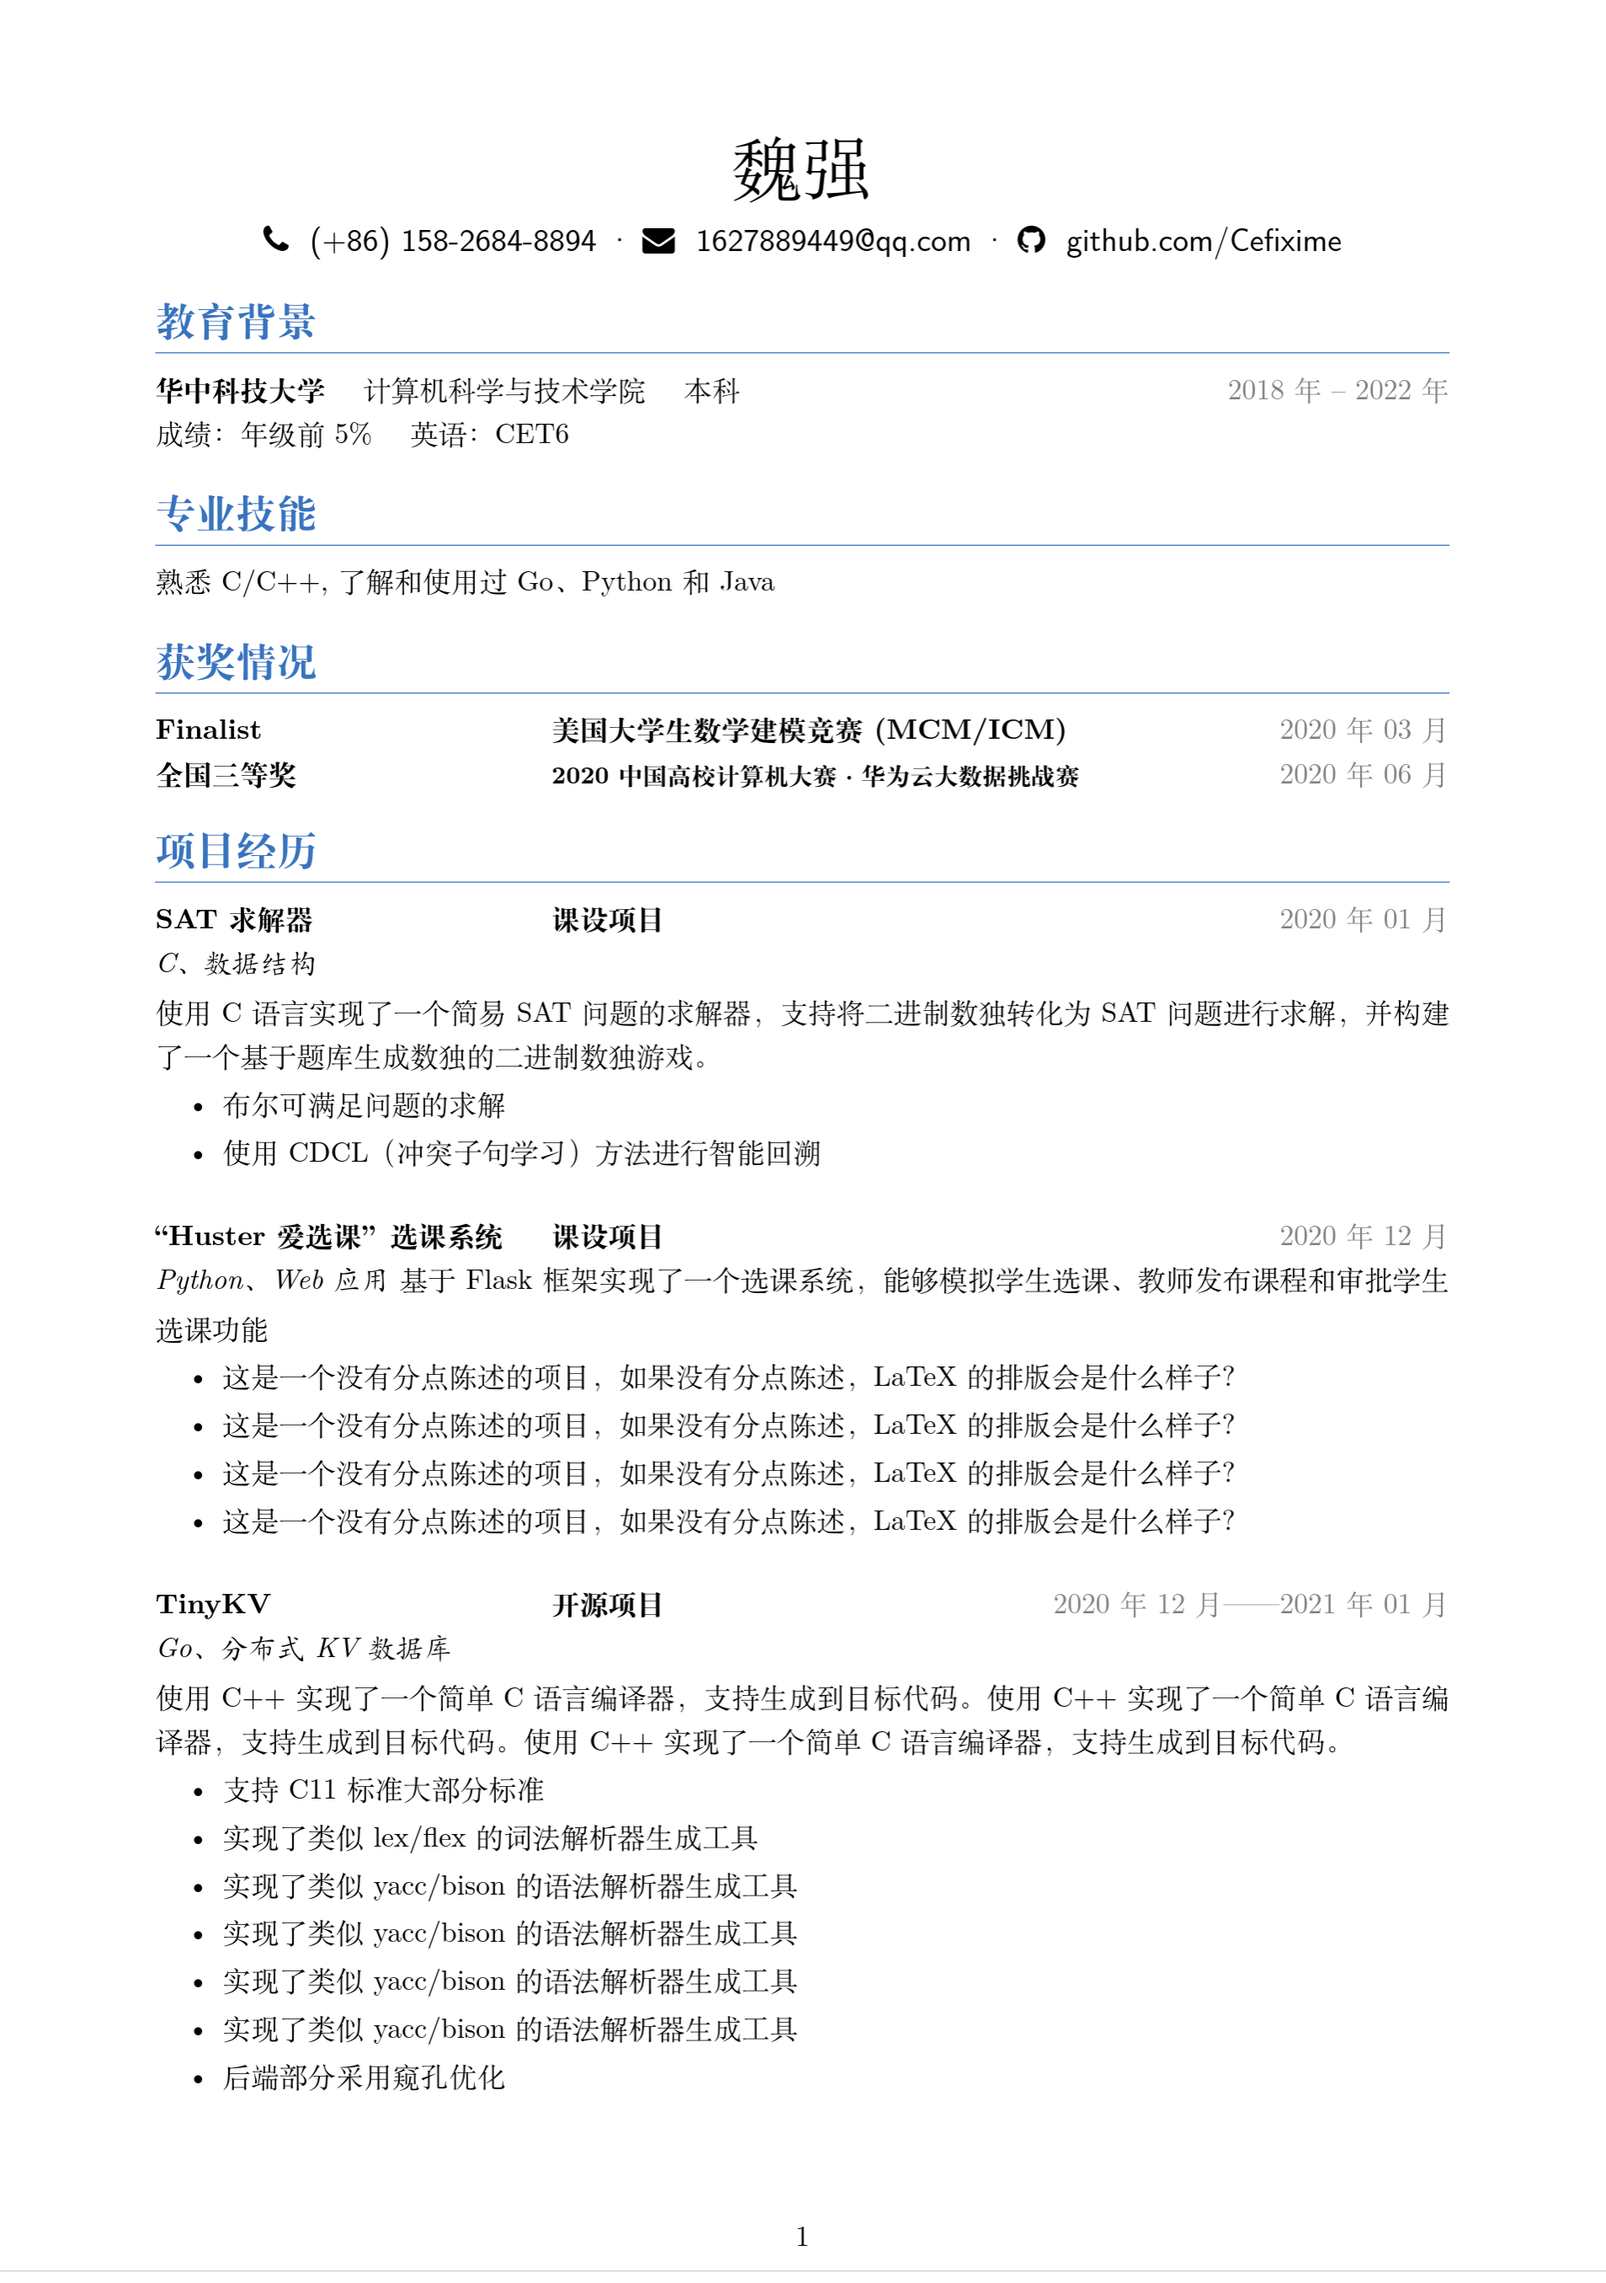
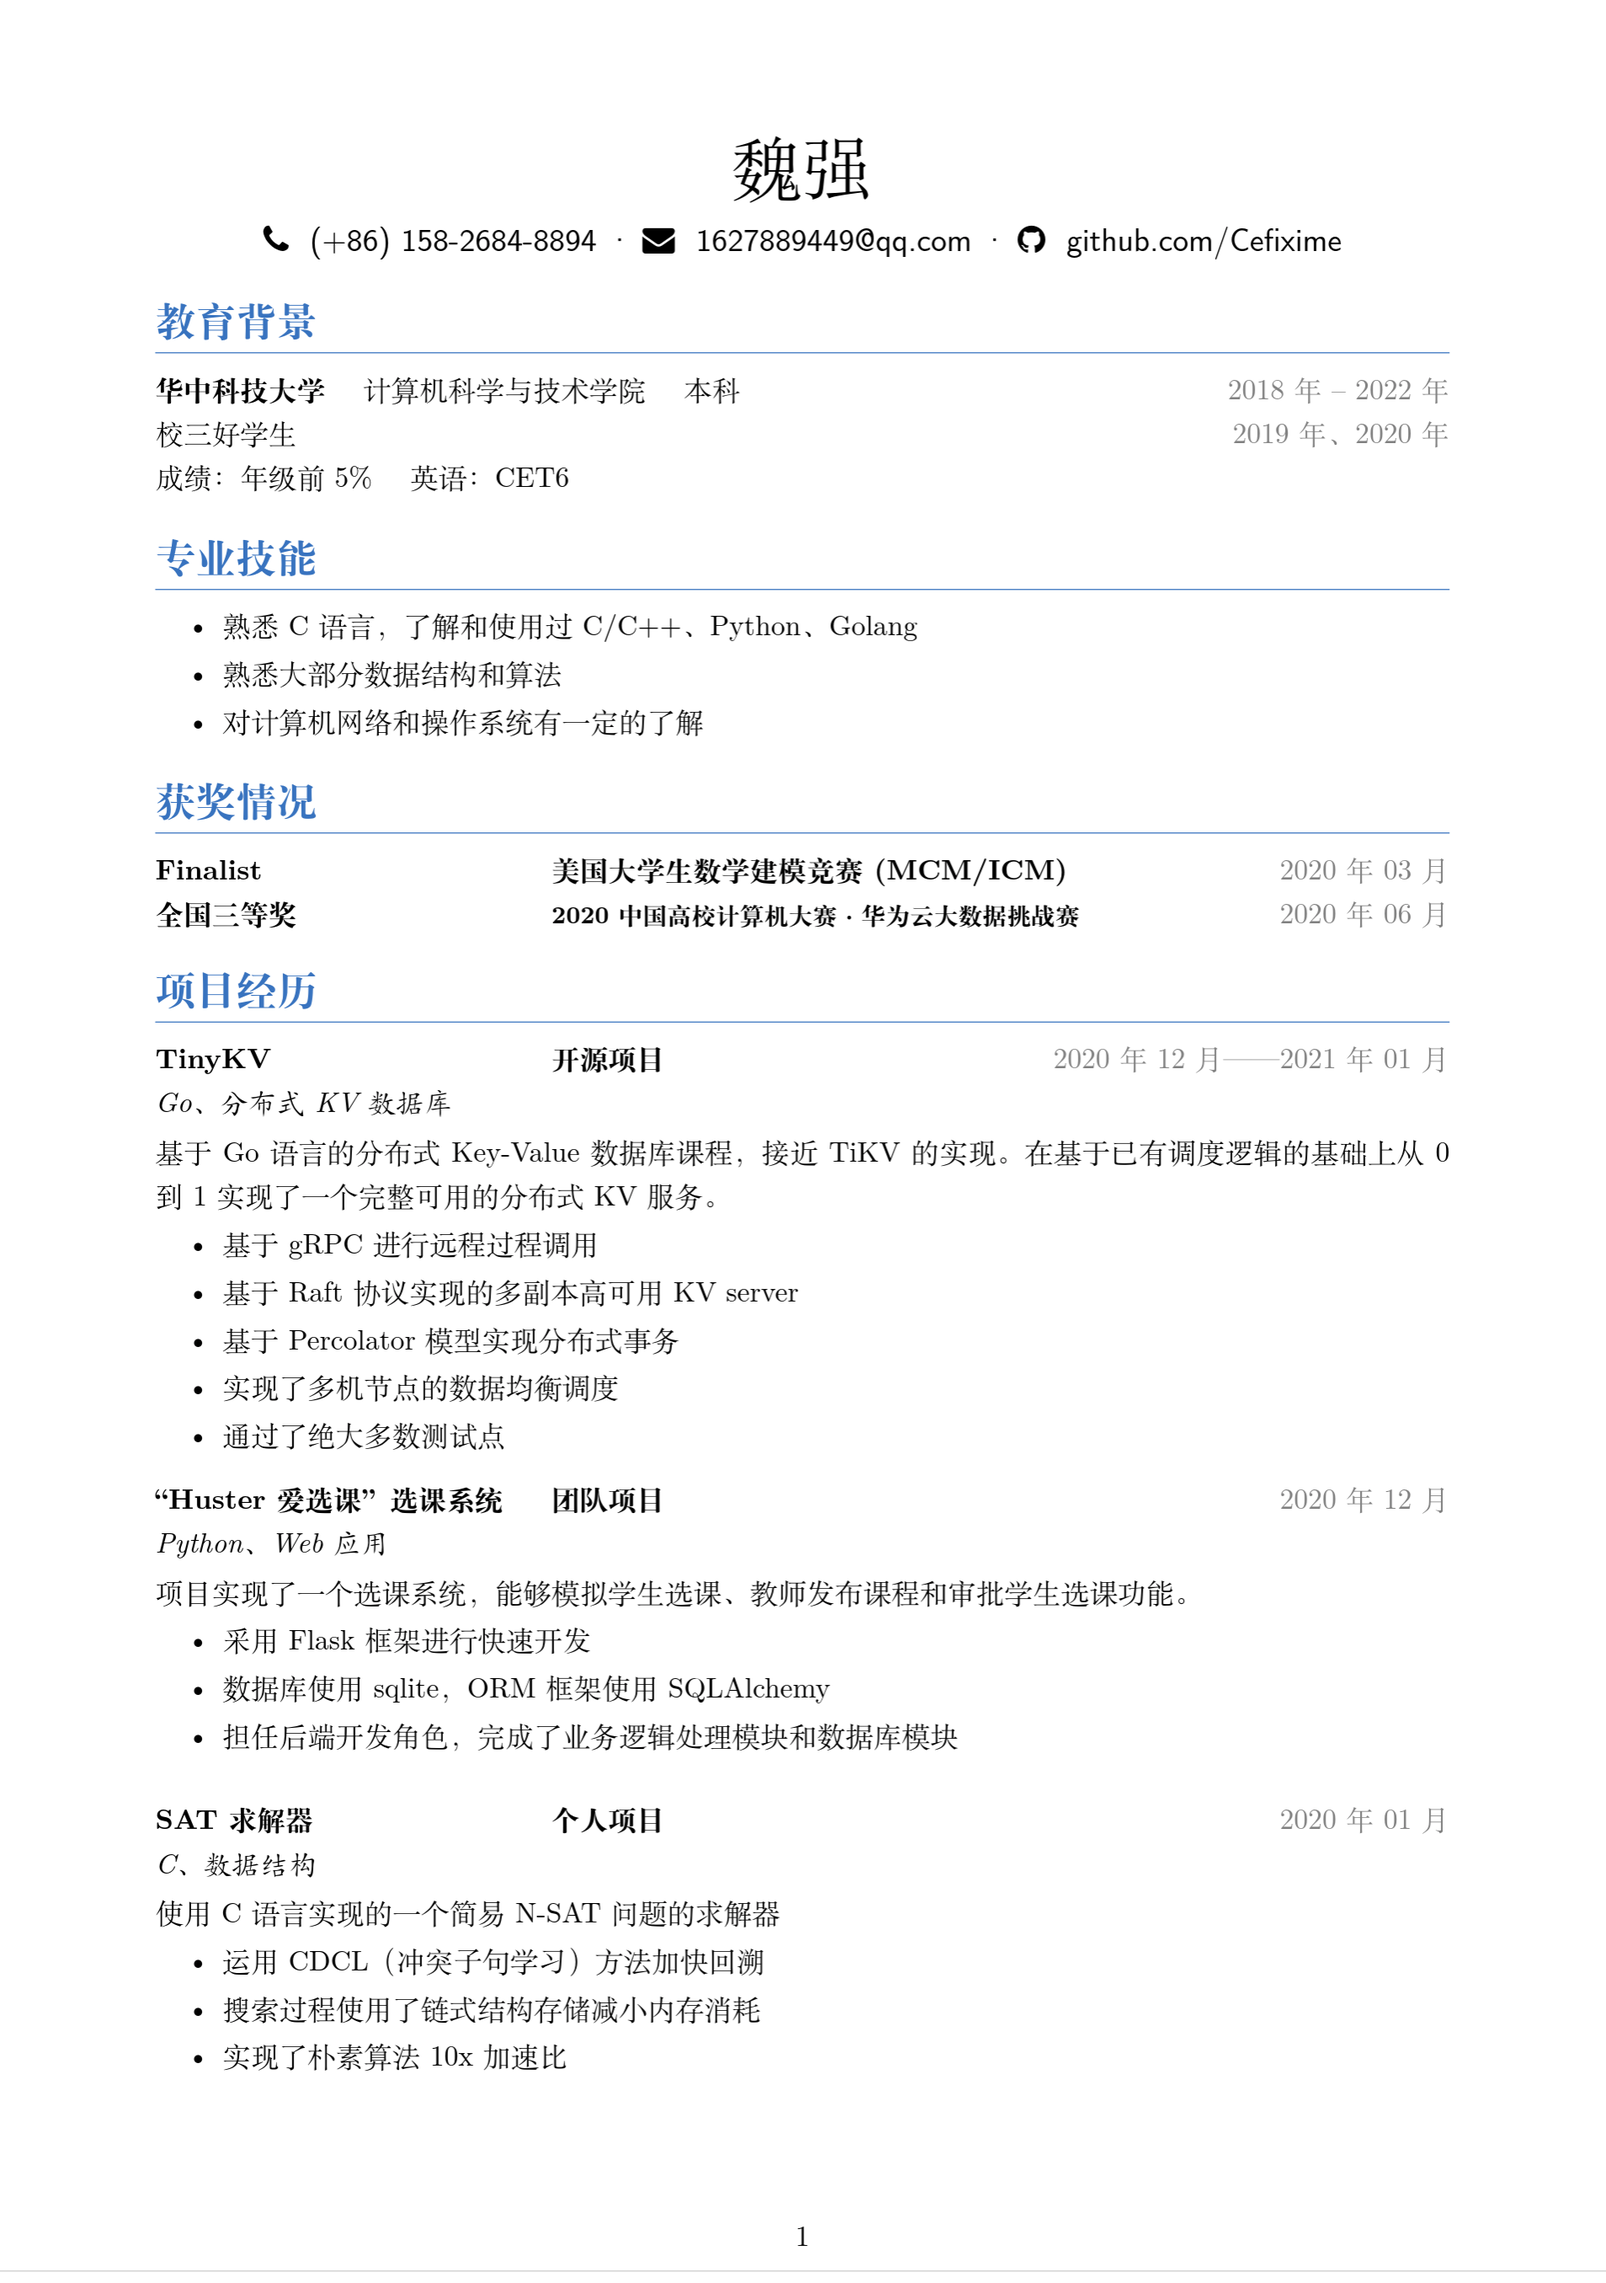
modify some description

diff --git a/wq.tex b/wq.tex
@@ -23,6 +23,7 @@
 
 \section{教育背景}
 \dateditem{\textbf{华中科技大学} \quad 计算机科学与技术学院 \quad 本科}{2018年 -- 2022年}
+\dateditem{校三好学生}{2019年、2020年}
 成绩：年级前5\% \quad 英语：CET6
 
 
@@ -30,8 +31,11 @@
 
 \section{专业技能}
 \smallskip
-熟悉C/C++, 了解和使用过Go、Python和Java
-
+\begin{itemize}
+\item 熟悉C语言，了解和使用过C/C++、Python、Golang
+\item 熟悉大部分数据结构和算法
+\item 对计算机网络和操作系统有一定的了解
+\end{itemize}
 
 % ----------------------------------------------------------------------------- %
 
@@ -44,47 +48,46 @@
 
 \section{项目经历}
 
-
-% ---
-\datedproject{SAT求解器}{课设项目}{2020年01月}
-\textit{C、数据结构}
-\vspace{0.4ex}
-
-使用C语言实现了一个简易SAT问题的求解器，支持将二进制数独转化为SAT问题进行求解，并构建了一个基于题库生成数独的二进制数独游戏。
-\begin{itemize}
-  \item 布尔可满足问题的求解
-  \item 使用CDCL（冲突子句学习）方法进行智能回溯
-\end{itemize}
-\medskip
-% ---
-\datedproject{“Huster爱选课”选课系统}{课设项目}{2020年12月}
-\textit{Python、Web应用}
-\vspace{0.4ex}
-基于Flask框架实现了一个选课系统，能够模拟学生选课、教师发布课程和审批学生选课功能
-\begin{itemize}
-\item 这是一个没有分点陈述的项目，如果没有分点陈述，LaTeX的排版会是什么样子？
-\item 这是一个没有分点陈述的项目，如果没有分点陈述，LaTeX的排版会是什么样子？
-\item 这是一个没有分点陈述的项目，如果没有分点陈述，LaTeX的排版会是什么样子？
-\item 这是一个没有分点陈述的项目，如果没有分点陈述，LaTeX的排版会是什么样子？
-\end{itemize}
-\medskip
-% ---
 \datedproject{TinyKV}{开源项目}{2020年12月——2021年01月}
 \textit{Go、分布式KV数据库}
 \vspace{0.4ex}
 
-使用C++实现了一个简单C语言编译器，支持生成到目标代码。
-使用C++实现了一个简单C语言编译器，支持生成到目标代码。
-使用C++实现了一个简单C语言编译器，支持生成到目标代码。
+
+基于Go语言的分布式 Key-Value 数据库课程，接近TiKV的实现。在基于已有调度逻辑的基础上
+从 0 到 1 实现了一个完整可用的分布式 KV 服务。
 \begin{itemize}
-  \item 支持C11标准大部分标准
-  \item 实现了类似lex/flex的词法解析器生成工具
-  \item 实现了类似yacc/bison的语法解析器生成工具
-  \item 实现了类似yacc/bison的语法解析器生成工具
-  \item 实现了类似yacc/bison的语法解析器生成工具
-  \item 实现了类似yacc/bison的语法解析器生成工具
-  \item 后端部分采用窥孔优化
+  \item 基于gRPC进行远程过程调用
+  \item 基于Raft协议实现的多副本高可用KV server
+  \item 基于 Percolator 模型实现分布式事务
+  \item 实现了多机节点的数据均衡调度
+  \item 通过了绝大多数测试点
 \end{itemize}
+% ---
+\datedproject{“Huster爱选课”选课系统}{团队项目}{2020年12月}
+\textit{Python、Web应用}
+\vspace{0.4ex}
+
+项目实现了一个选课系统，能够模拟学生选课、教师发布课程和审批学生选课功能。
+\begin{itemize}
+  \item 采用Flask框架进行快速开发
+  \item 数据库使用sqlite，ORM框架使用SQLAlchemy
+  \item 担任后端开发角色，完成了业务逻辑处理模块和数据库模块
+\end{itemize}
+
+\medskip
+% ---
+\datedproject{SAT求解器}{个人项目}{2020年01月}
+\textit{C、数据结构}
+\vspace{0.4ex}
+
+使用C语言实现的一个简易N-SAT问题的求解器
+\begin{itemize}
+  \item 运用CDCL（冲突子句学习）方法加快回溯
+  \item 搜索过程使用了链式结构存储减小内存消耗
+  \item 实现了朴素算法10x加速比
+\end{itemize}
+\medskip
+% ---
 
 
 % ----------------------------------------------------------------------------- %
